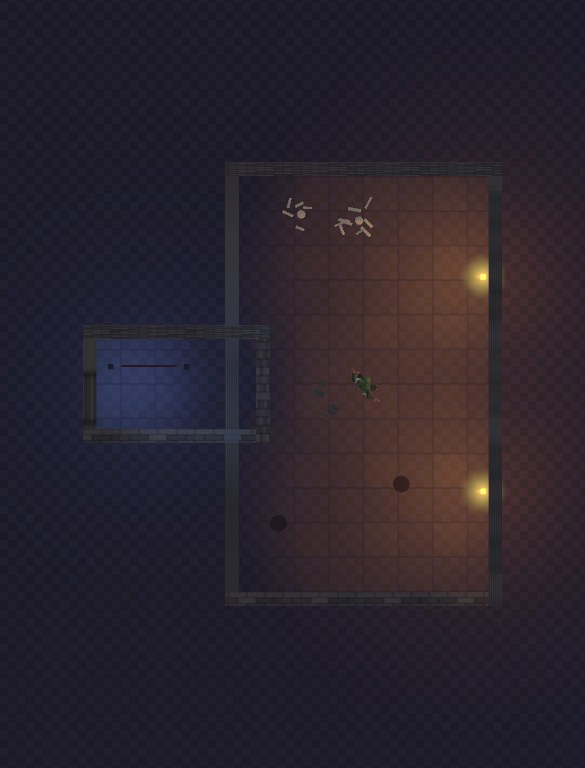
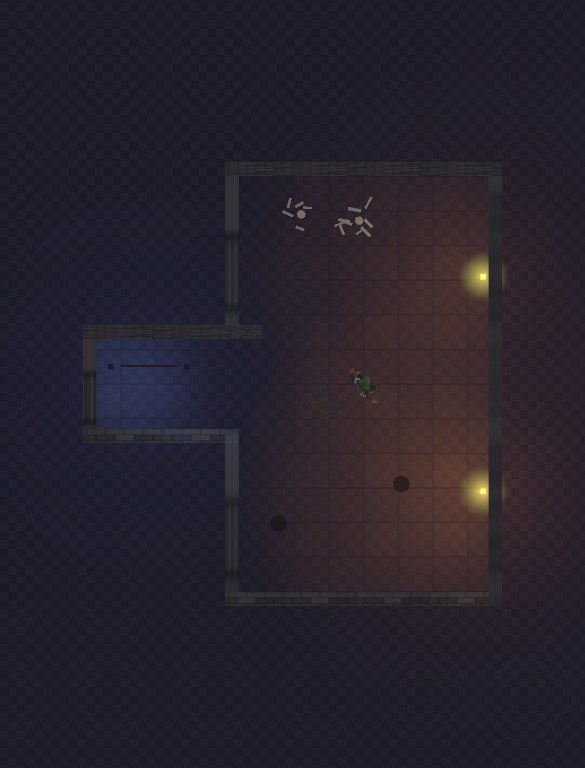
修走廊門洞被牆封死：判定改成跨過牆線；新增接口堵塞量測與反向對照

Changed region(s): [[0.6462, 0.2812, 0.8308, 0.4688]]

diff --git a/dnd-floors.html b/dnd-floors.html
@@ -134,7 +134,23 @@ footer{margin-top:44px;color:var(--ink-soft);font-size:13px;text-align:center}
   <p>「出口落在第一間房 = 0%」這一列是刻意加的：它保證每一層都真的要走過走廊，
      而不是原地就能下樓。</p>
 
-  <h2>過程中抓到的兩個問題</h2>
+  <h2>過程中抓到的三個問題</h2>
+
+  <div class="note warn">
+    <p><b>零、走廊兩端在視覺上是封閉的（使用者回報）。</b></p>
+    <p>牆上挖門洞的判定寫的是「哪個區塊的邊緣<b>剛好貼齊</b>這道牆線」。
+       但走廊是刻意咬進房間 0.9 公尺的，邊緣落在房內、不在牆線上——
+       判定不成立，門洞一個都沒挖，走廊兩端全被牆封死。
+       正確的判定是「哪個區塊<b>跨過</b>這道牆線」。</p>
+    <p><b>200 層的 BFS 對這個 bug 完全盲眼</b>，因為可走判定與畫出來的牆是兩套
+       獨立的系統：資料上通、視覺上封死，測試照樣全綠。現在多量一個
+       「走廊接口被牆堵住幾個」。</p>
+    <p><b>而且這個新指標本身也驗過了：</b>把修正退回舊邏輯重跑，六層的每一個接口
+       都被判定為堵住（5/5、5/5、5/5、3/3、1/1、1/1），同時
+       <code>出口可達</code> 仍然全是 True。它抓得到，不是那種永遠會過的指標。</p>
+  </div>
+
+  <h2>另外兩個問題</h2>
 
   <div class="note warn">
     <p><b>一、每層只生成一間房，而連通性測試 100% 通過。</b></p>
